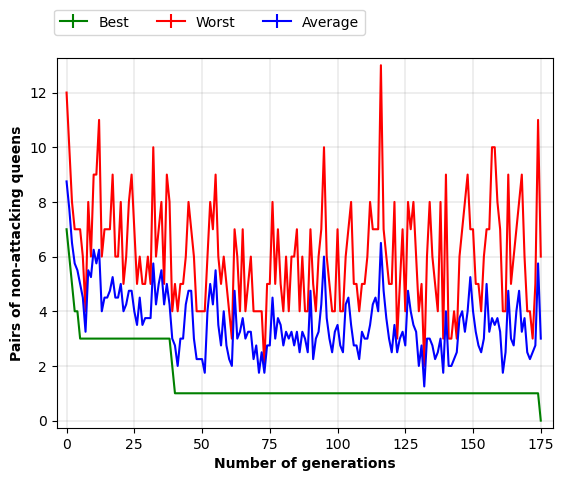
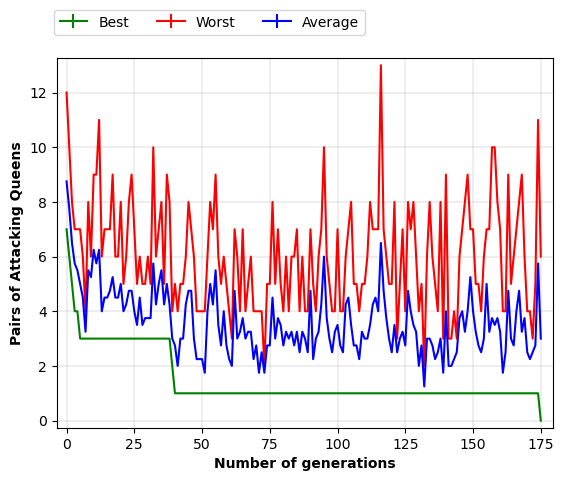
Fix name of y in the plot

Changed region(s): [[0.0, 0.2495, 0.0603, 0.7484]]

diff --git a/plots/plot.py b/plots/plot.py
@@ -55,7 +55,7 @@ plt.errorbar(x,y2, ls="solid", label='Worst', color='r', yerr=y2_std, zorder=3)
 plt.errorbar(x,y3, ls="solid", label='Average', color='b', yerr=y3_std, zorder=3)			
 
 nameFile = 'queens'
-ylabel = 'Pairs of non-attacking queens'
+ylabel = 'Pairs of Attacking Queens'
 xlabel = 'Number of generations'
 title = "8-Queens Problem"
 
